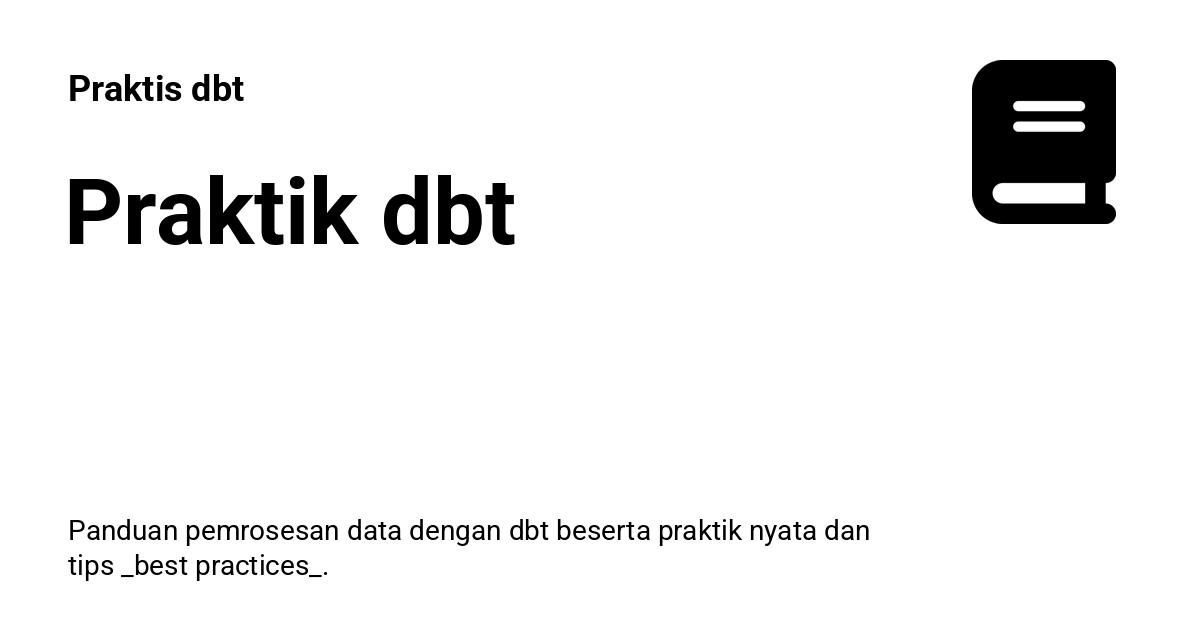
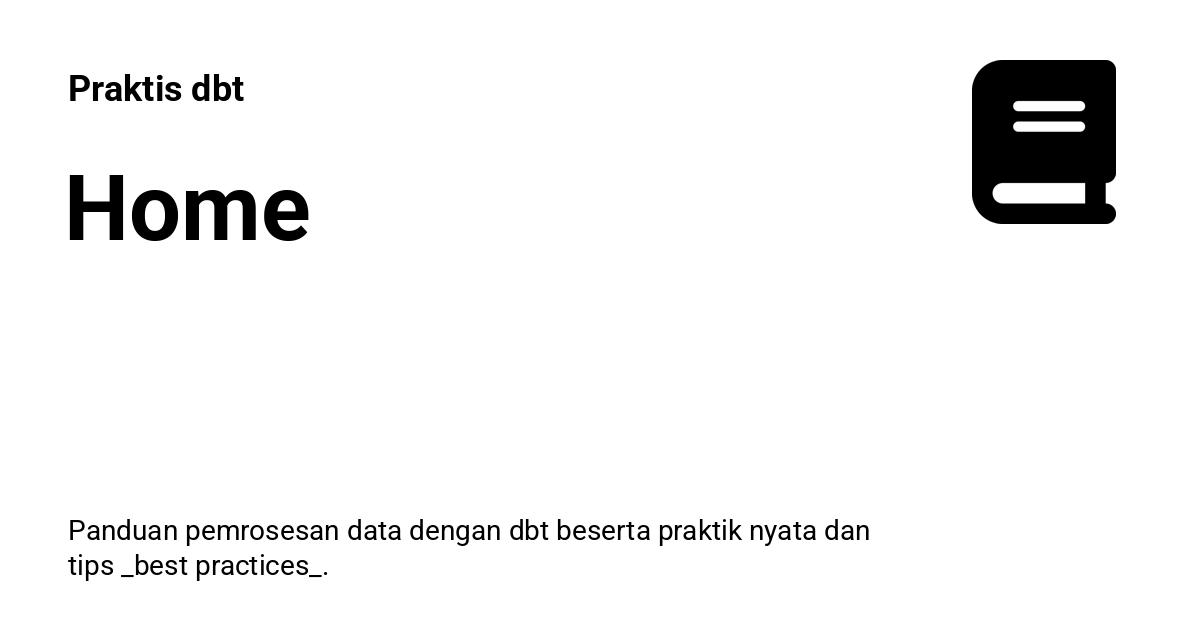
Deployed bb33984 with MkDocs version: 1.6.1

Changed region(s): [[0.0617, 0.2714, 0.4317, 0.3921]]

diff --git a/js/sponsor-button.js b/js/sponsor-button.js
@@ -1,24 +1,18 @@
 document.addEventListener("DOMContentLoaded", function () {
-    let header = document.querySelector(".md-header__inner");
-    if (header) {
-      // Sponsor Button
-      let sponsorButton = document.createElement("a");
-      sponsorButton.href = "https://saweria.co/rendybjunior"; // Change URL
-      sponsorButton.className = "md-button md-button--primary sponsor-button"; 
-      sponsorButton.innerHTML = `
-        <span class="sponsor-icon">❤</span> Sponsor
-      `;
-  
-      // GitHub Star Button
-      let starButton = document.createElement("a");
-      starButton.href = "https://github.com/rendybjunior/praktisdbt/stargazers"; // Change to your repo's Stargazers page
-      starButton.className = "md-button md-button--primary star-button"; 
-      starButton.innerHTML = `
-        <span class="star-icon">⭐</span> Star
-      `;
-  
-      // Append buttons to the header
-      header.appendChild(sponsorButton);
-    //   header.appendChild(starButton);
+  let header = document.querySelector(".md-header__inner");
+  let repoButton = document.querySelector(".md-header__source"); // Repo button container
+
+
+  let sponsorButton = document.createElement("a");
+  sponsorButton.href = "https://saweria.co/rendybjunior";
+  sponsorButton.className = "md-button md-button--primary sponsor-button"; 
+  sponsorButton.innerHTML = `<span class="sponsor-icon">❤</span> Sponsor`;
+
+  if (header) {
+    if (repoButton) {
+        header.insertBefore(sponsorButton, repoButton);
+    } else {
+        header.appendChild(sponsorButton); // Fallback if repo button is missing
     }
-  });
+  }
+});

diff --git a/stylesheets/extra.css b/stylesheets/extra.css
@@ -1,26 +1,18 @@
-/* Hide sidebar section titles */
-.md-nav__title {
-    display: none !important;
-}
-
-.sponsor-button, .star-button {
+/* Style sponsor button */
+.sponsor-button {
     margin-left: 10px;
-    background-color: white !important;
-    color: black !important;
     padding: 6px 10px;
-    /* font-weight: bold; */
-    font-family: sans-serif;
-    font-size: .6rem;
+    font-size: 0.65rem;
+    font-family: "Arial", sans-serif;
     text-decoration: none;
 }
 
-/* Bold only first-level items in the left sidebar */
-.md-sidebar--primary .md-nav__list > .md-nav__item > .md-nav__link {
-    font-weight: bold;
-    font-size: 0.8rem; /* Optional: Increase size */
+[data-md-color-scheme="default"] .sponsor-button {
+    background-color: white !important;
+    color: black !important;
 }
 
-/* Ensure nested (child) items remain normal */
-.md-sidebar--primary .md-nav__list .md-nav__list .md-nav__item > .md-nav__link {
-    font-weight: normal;
+[data-md-color-scheme="slate"] .sponsor-button {
+    background-color: hsla(var(--md-hue), 15%, 9%, 1) !important;
+    color: white !important;
 }

diff --git a/analyses.html b/analyses.html
@@ -311,7 +311,7 @@
   
   
   <span class="md-ellipsis">
-    Praktik dbt
+    Home
     
   </span>
   
@@ -707,7 +707,7 @@
       <nav class="md-footer__inner md-grid" aria-label="Footer" >
         
           
-          <a href="index.html" class="md-footer__link md-footer__link--prev" aria-label="Sebelumnya: Praktik dbt">
+          <a href="index.html" class="md-footer__link md-footer__link--prev" aria-label="Sebelumnya: Home">
             <div class="md-footer__button md-icon">
               
               <svg xmlns="http://www.w3.org/2000/svg" viewBox="0 0 24 24"><path d="M20 11v2H8l5.5 5.5-1.42 1.42L4.16 12l7.92-7.92L13.5 5.5 8 11z"/></svg>
@@ -717,7 +717,7 @@
                 Sebelumnya
               </span>
               <div class="md-ellipsis">
-                Praktik dbt
+                Home
               </div>
             </div>
           </a>

diff --git a/index.html b/index.html
@@ -161,7 +161,7 @@
         <div class="md-header__topic" data-md-component="header-topic">
           <span class="md-ellipsis">
             
-              Praktik dbt
+              Home
             
           </span>
         </div>
@@ -318,7 +318,7 @@
   
   
   <span class="md-ellipsis">
-    Praktik dbt
+    Home
     
   </span>
   

diff --git a/404.html b/404.html
@@ -265,7 +265,7 @@
   
   
   <span class="md-ellipsis">
-    Praktik dbt
+    Home
     
   </span>
   

diff --git a/chapter-1/exposure.html b/chapter-1/exposure.html
@@ -306,7 +306,7 @@
   
   
   <span class="md-ellipsis">
-    Praktik dbt
+    Home
     
   </span>
   

diff --git a/chapter-1/group.html b/chapter-1/group.html
@@ -306,7 +306,7 @@
   
   
   <span class="md-ellipsis">
-    Praktik dbt
+    Home
     
   </span>
   

diff --git a/chapter-1/project.html b/chapter-1/project.html
@@ -311,7 +311,7 @@
   
   
   <span class="md-ellipsis">
-    Praktik dbt
+    Home
     
   </span>
   

diff --git a/chapter-1/source.html b/chapter-1/source.html
@@ -311,7 +311,7 @@
   
   
   <span class="md-ellipsis">
-    Praktik dbt
+    Home
     
   </span>
   

diff --git a/cheatsheet.html b/cheatsheet.html
@@ -309,7 +309,7 @@
   
   
   <span class="md-ellipsis">
-    Praktik dbt
+    Home
     
   </span>
   
